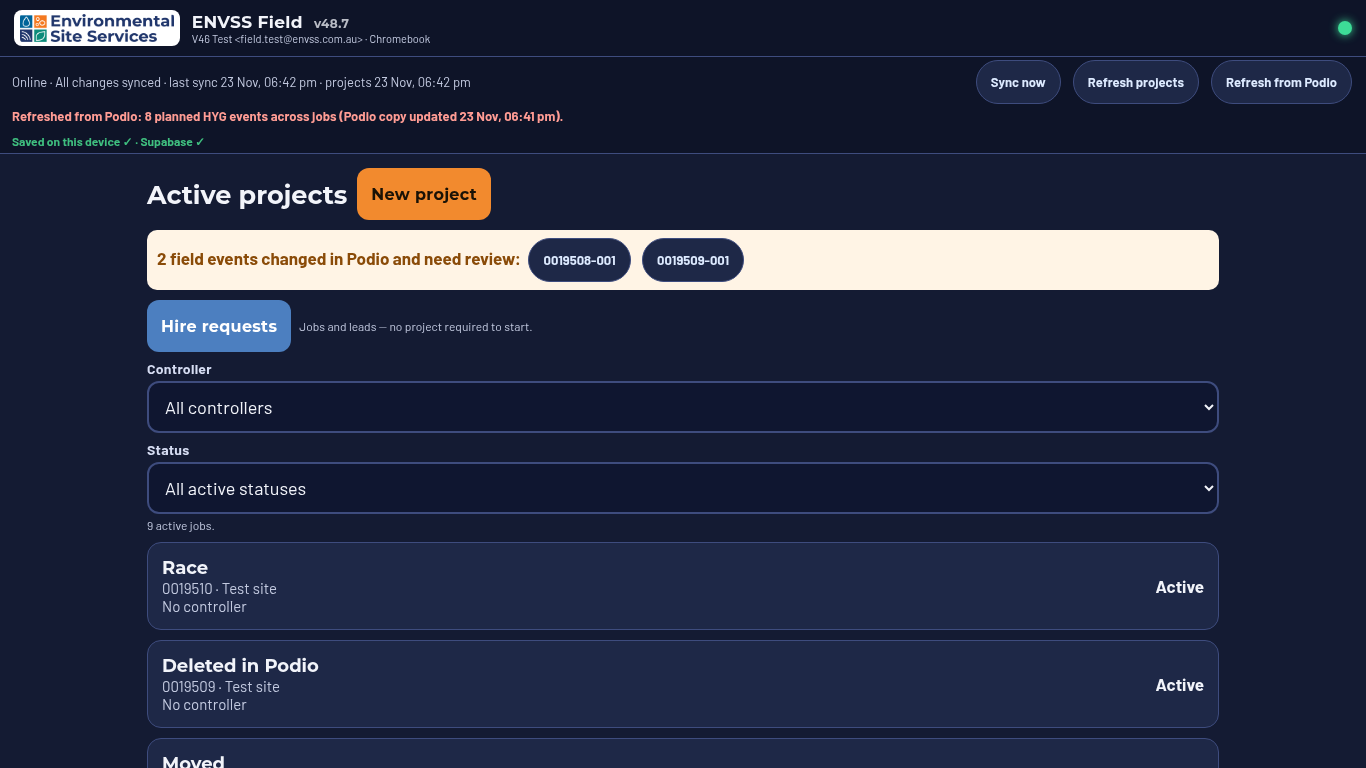
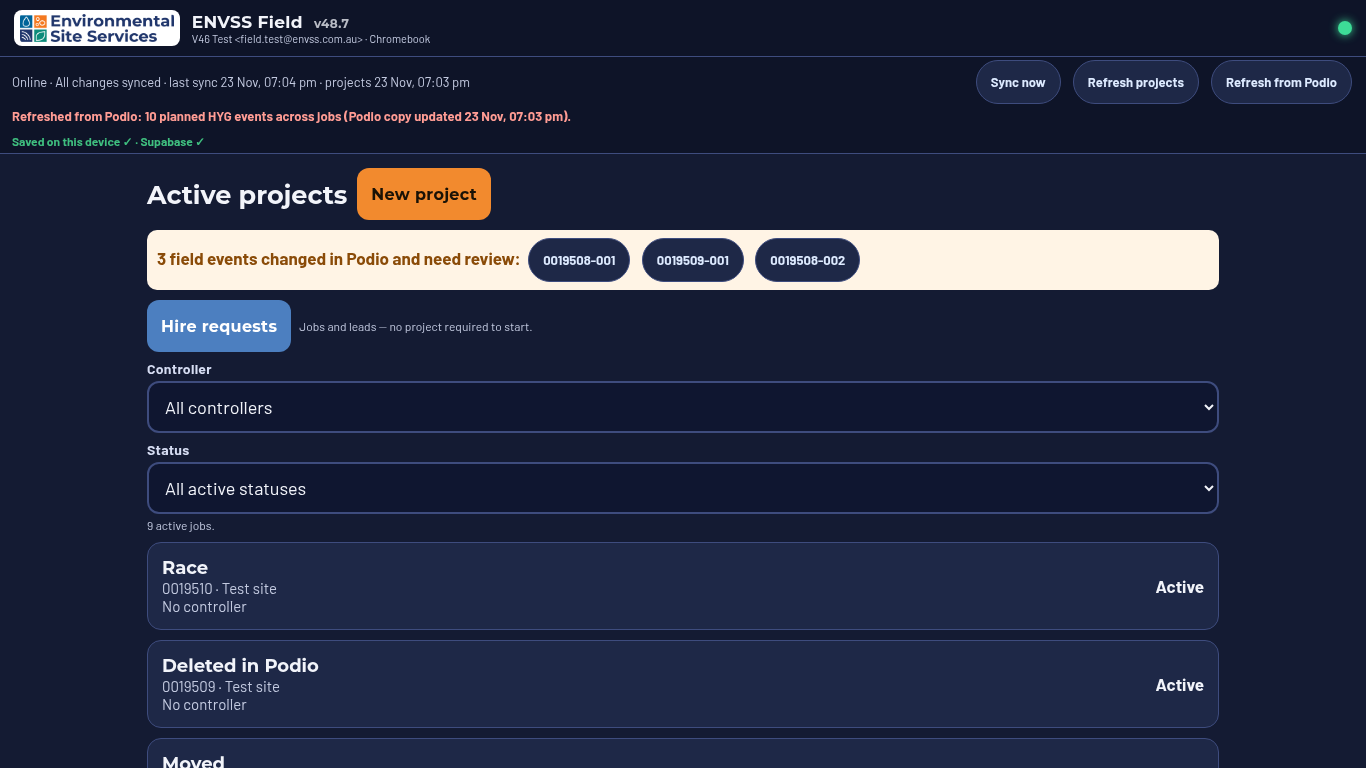
v48.7 draft: finished report stages (Invoiced, No Report Required, Canceled, Final Report Generated, …) and Site Works Not Required are not planned; Canceled flag; tests 87/87; live dry run

diff --git a/field.html b/field.html
@@ -9240,11 +9240,16 @@ window.HIRE_CATALOG = HIRE_CATALOG;
       return "";
     }
 
+    /* v48.7: Report Status (generate-final-report) options at or after "Final Report Generated" = the field visit is over.
+       Exact option texts from Podio app 24280319 (read 23 Nov 2026 AWST): active 67-72 plus the deleted legacy texts still on old items.
+       "Cancelled" is accepted as well as Podio's "Canceled". Earlier stages (Pending, drafting, review) still count as planned. */
+    const REPORT_DONE = new Set(["Final Report Generated", "*Send final Report to Client", "Report Sent", "Canceled", "Cancelled", "No Report Required", "Invoiced",
+      "Report Generated - Not Sent", "Report Sent to Client", "Event Canceled", "Event Cancelled"].map(s => s.toLowerCase()));
     function isPlanned(p) {
       const start = String(p.startStatus || "");
-      if (/not required/i.test(start)) return false;
+      if (start === "Site Works Not Required" || /not required/i.test(start)) return false;   /* exact Podio option 3, plus older wording */
       if (p.cocStatus === "Lab Results Received") return false;
-      if (p.reportStatus === "Report Sent") return false;
+      if (REPORT_DONE.has(String(p.reportStatus || "").trim().toLowerCase())) return false;   /* v48.7: report stage at or after Final Report Generated */
       if (!start) return true;
       return /tentative|confirmed/i.test(start);
     }
@@ -9293,7 +9298,7 @@ window.HIRE_CATALOG = HIRE_CATALOG;
       payload.planned = isPlanned(payload);
       return payload;
     }
-    return { mapItem };
+    return { mapItem, isPlanned };
   })();
   const COOL_KEY = "envss-podio-cooldown-v46";
   let mirrorAt = 0;
@@ -11525,6 +11530,7 @@ function fixOpen(ts) {
    and an existing row (made by another device, edited, or deleted) always wins; nothing is overwritten. Nothing is
    deleted. No Podio calls or writes. ===== */
 (function () {
+  const PodioMapIsPlanned = p => window.envssPodio && envssPodio.map && envssPodio.map.isPlanned ? envssPodio.map.isPlanned(p) : true;
   const ALL_KEY = "envss-podio-hyg-all-v487", GONE_KEY = "envss-podio-deleted-items-v487", MADE_KEY = "envss-auto-made-v487";
   const BACK_DAYS = 7;            /* Podio start date at most 7 days ago (older backlog keeps Start fieldwork) */
   const NODATE_EDIT_DAYS = 60;    /* no start date in Podio: only if the Podio item was edited in the last 60 days */
@@ -11594,7 +11600,8 @@ function fixOpen(ts) {
         || (pl.startDate && e.date && Math.abs(dayDiff(e.date, pl.startDate)) <= MATCH_DAYS)
         || (!pl.startDate && (!e.date || e.date >= addDays(t, -BACK_DAYS)))));
   }
-  function seenOf(pl) { return { startDate: pl.startDate || "", startStatus: pl.startStatus || "", jobNumber: pl.jobNumber || "", reference: pl.reference || "", at: nowIso() }; }
+  function seenOf(pl) { return { startDate: pl.startDate || "", startStatus: pl.startStatus || "", reportStatus: pl.reportStatus || "", jobNumber: pl.jobNumber || "", reference: pl.reference || "", at: nowIso() }; }
+  const isCancelled = v => /^(event )?cancel+ed$/i.test(String(v || "").trim());
   function codeFor(p, pl, tb) {
     const codes = new Set((db.events || []).map(e => e.code).concat([...tb.codes]));
     if (pl.fieldCode && !codes.has(pl.fieldCode)) return pl.fieldCode;
@@ -11686,6 +11693,7 @@ function fixOpen(ts) {
     const proj = project(ev.projectId), baseJob = (seen && seen.jobNumber) || jobOf(proj);
     if (pl.jobNumber && baseJob && pl.jobNumber !== baseJob) out.push({ kind: "job", text: "Moved to job " + pl.jobNumber + " in Podio (this event is on " + baseJob + ")." });
     if (/not required/i.test(pl.startStatus || "") && !(seen && /not required/i.test(seen.startStatus || ""))) out.push({ kind: "status", text: "Marked Not required in Podio." });
+    if (isCancelled(pl.reportStatus) && !(seen && isCancelled(seen.reportStatus))) out.push({ kind: "status", text: "Marked Canceled in Podio." });
     return out;
   }
   function allFlagged() {
@@ -11908,7 +11916,7 @@ function fixOpen(ts) {
     + "#v487Flags .btn,.v487-offer .btn{margin:4px 6px 0 0}#v487Dash{margin:10px 0}#v487Dash .sync-link{font-weight:700;margin:0 4px}";
   document.head.appendChild(st);
   window.envssAuto = { run, card, startManual, idFor, flagsFor, allFlagged, link, separate, review, eligible, isAfmOnly,
-    offers: () => JSON.parse(JSON.stringify(offers)), last: () => JSON.parse(JSON.stringify(last)), snap: () => snap, cfg: { BACK_DAYS, NODATE_EDIT_DAYS, MATCH_DAYS } };
+    isPlanned: p => PodioMapIsPlanned(p), offers: () => JSON.parse(JSON.stringify(offers)), last: () => JSON.parse(JSON.stringify(last)), snap: () => snap, cfg: { BACK_DAYS, NODATE_EDIT_DAYS, MATCH_DAYS } };
 })();
 </script>
 

diff --git a/supabase/functions/pull-hyg-events/map.js b/supabase/functions/pull-hyg-events/map.js
@@ -97,11 +97,16 @@ export function mapTurnaround(label) {
   return "";
 }
 
+/* v48.7: Report Status (generate-final-report) options at or after "Final Report Generated" = the field visit is over.
+   Exact option texts from Podio app 24280319 (read 23 Nov 2026 AWST): active 67-72 plus the deleted legacy texts still on old items.
+   "Cancelled" is accepted as well as Podio's "Canceled". Earlier stages (Pending, drafting, review) still count as planned. */
+const REPORT_DONE = new Set(["Final Report Generated", "*Send final Report to Client", "Report Sent", "Canceled", "Cancelled", "No Report Required", "Invoiced",
+  "Report Generated - Not Sent", "Report Sent to Client", "Event Canceled", "Event Cancelled"].map(s => s.toLowerCase()));
 export function isPlanned(p) {
   const start = String(p.startStatus || "");
-  if (/not required/i.test(start)) return false;
+  if (start === "Site Works Not Required" || /not required/i.test(start)) return false;   /* exact Podio option 3, plus older wording */
   if (p.cocStatus === "Lab Results Received") return false;
-  if (p.reportStatus === "Report Sent") return false;
+  if (REPORT_DONE.has(String(p.reportStatus || "").trim().toLowerCase())) return false;   /* v48.7: report stage at or after Final Report Generated */
   if (!start) return true;
   return /tentative|confirmed/i.test(start);
 }

diff --git a/work/v48-7/README.md b/work/v48-7/README.md
@@ -1,13 +1,18 @@
 # v48.7 draft — field events created automatically from Podio (open item 11)
 
 John: rules 20 Nov 2026 AWST, build approved 23 Nov 2026 AWST. **Draft only. Not published:** merging field.html to main publishes the live app.
-Numbered 48.7 because 48.6 (linked samples, PR #14) is a separate draft. Built on `feat/v48-5-afm-report-not-sent` (PR #12); rebase on main once 48.5 merges.
+Numbered 48.7 because 48.6 (linked samples, PR #14) is a separate draft. Rebased on main (v48.5 merged as ef2874a).
 
 ## What it does
 - When the app reads the Podio copy (`v_field_hyg_events`, HYG Assessment Events app 24280319) it creates the field event itself.
   The read happens on Refresh from Podio, on project open (as before) and now also in the background every 15 min while the app is open
   (the top-bar "Refreshed from Podio" note only changes when someone taps Refresh).
-- Created for every planned HYG event (tentative, confirmed or no status; not "Not required", not Lab Results Received, not Report Sent)
+- Created for every planned HYG event (tentative, confirmed or no status). Not planned (never auto-created): Site Works Start Date Status
+  "Site Works Not Required"; COC Status "Lab Results Received"; Report Status at or after "Final Report Generated" — Final Report Generated,
+  \*Send final Report to Client, Report Sent, Canceled (or Cancelled), No Report Required, Invoiced, plus the deleted legacy texts still on old
+  items (Report Generated - Not Sent, Report Sent to Client, Event Canceled). Exact option texts read from Podio app 24280319 (read only,
+  23 Nov 2026 AWST). Earlier report stages (Pending, drafting, review) still count as planned. Same rule in `supabase/functions/pull-hyg-events/map.js`
+  (repo copy only; the Edge Function is not redeployed).
   — no wait for a confirmed date — when its Podio start date is no more than 7 days ago, or it has no start date and was edited in Podio in the
   last 60 days. Older backlog keeps the **Start fieldwork** button (fallback). AFM-only HYG items (`-HYG-AFM-`) are skipped (AFM flow).
 - Same record as Start fieldwork (POC, lab, task, turnaround, Drive link, Podio item id) plus `podioAuto: true`, `podioSeen` (the Podio date /
@@ -17,7 +22,7 @@ Numbered 48.7 because 48.6 (linked samples, PR #14) is a separate draft. Built o
   The Podio card then says "will not be created again" with a deliberate **Start fieldwork again** (fresh id).
 - **Podio moved / deleted:** never applied. The event, the project's Podio list and the dashboard show "Changed in Podio. Nothing here was
   changed automatically." with the change (date moved, date set/cleared, job changed, Not required, no longer in Podio) and
-  **Use Podio date** / **Keep as is** (both audited).
+  **Use Podio date** / **Keep as is** (both audited). A linked event later set to Canceled in Podio is flagged the same way.
 - **Hand-made duplicates:** if the job already has a hand-made ("Podio unplanned") hygiene event with the same code, a start date within 3 days,
   or (Podio has no date) a current one, nothing is created. Staff get **Link 0019401-001** or **Create a separate event** on the project, and
   **Link to this Podio event** / **Not this one** on the hand-made event. Link fills empty fields only (date, Mines Act etc. kept).
@@ -37,3 +42,8 @@ None required. Optional draft (NOT APPLIED): `work/hyg_v48_7_01_deleted_view.sql
 ## Tests
 `ROOT=/workspace/envss-auto node work/v48-7/test.mjs` (Pixel 7 412×915 and Chromebook 1366×768; each device has its own browser storage;
 Supabase mocked in memory, *.supabase.co mapped to a dead port). Results `test-results.json`, screenshots `shots/`.
+
+## Dry run against the live mirror (read only, 23 Nov 2026 ~7:10 pm AWST)
+`/workspace/envss-auto-dryrun/dryrun.mjs` runs this field.html on a read-only copy of podio_items (app 24280319), envss_events,
+envss_deletions and envss_projects, with nothing sent. Day one: 8 events created, 1 link offer (0019185-001), 123 items not planned,
+3 planned but older than 7 days, 2 already linked.
